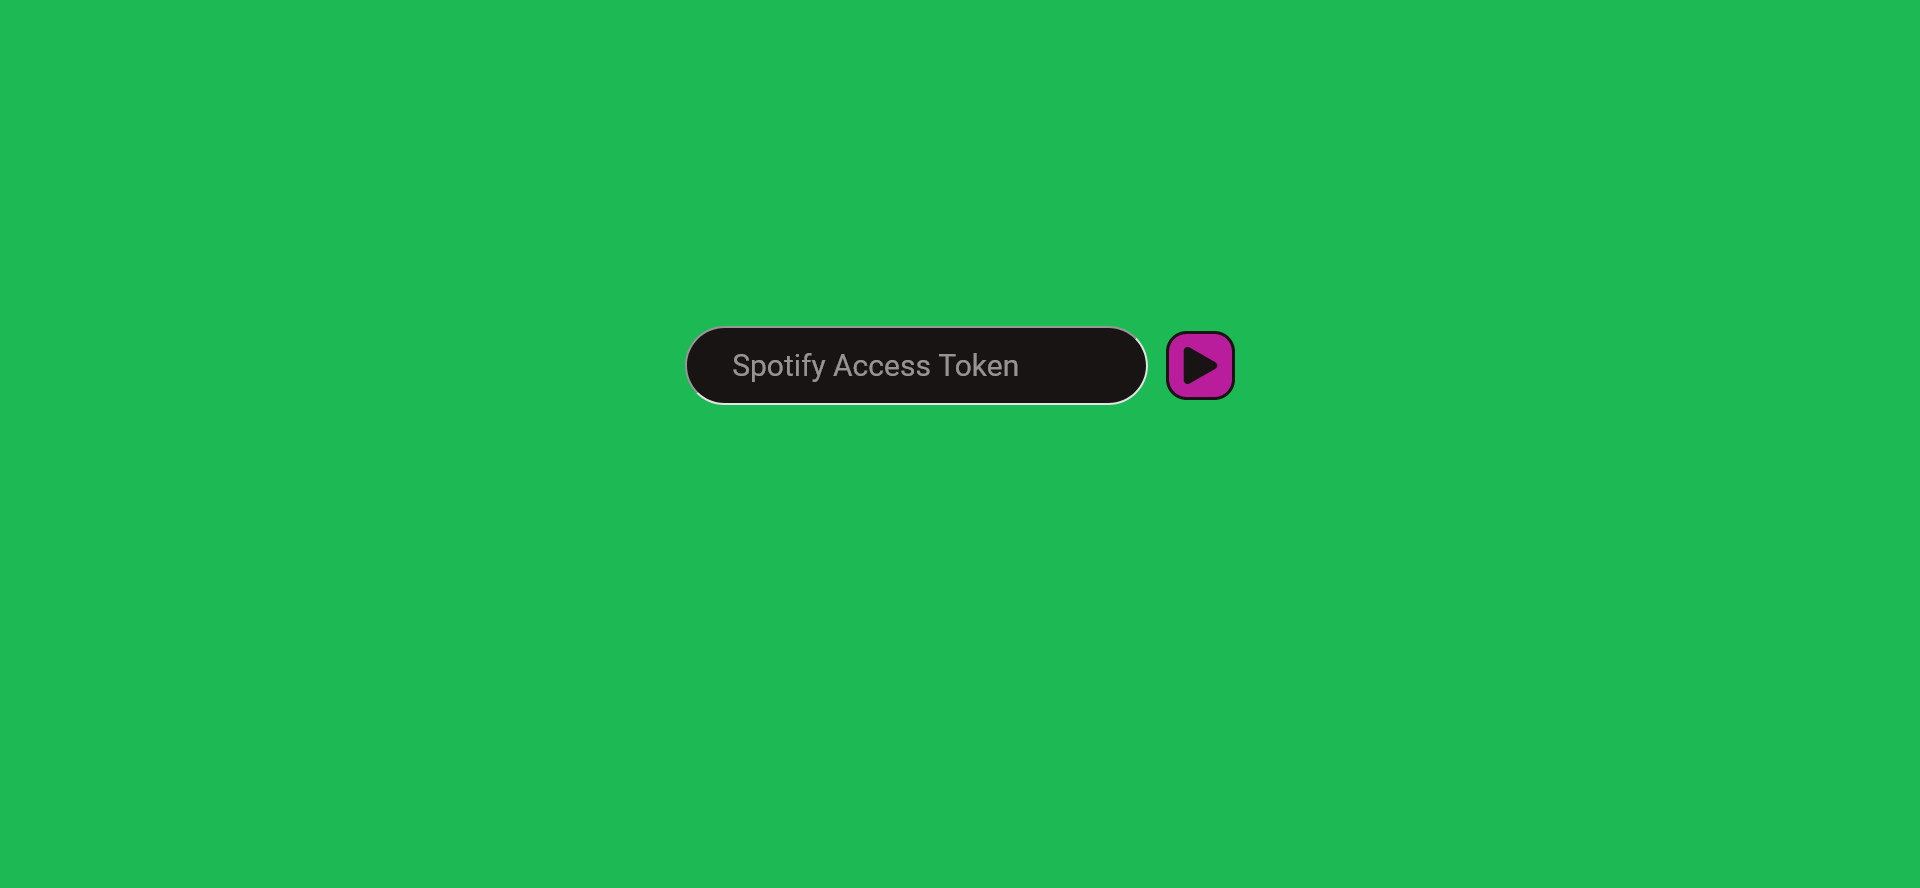
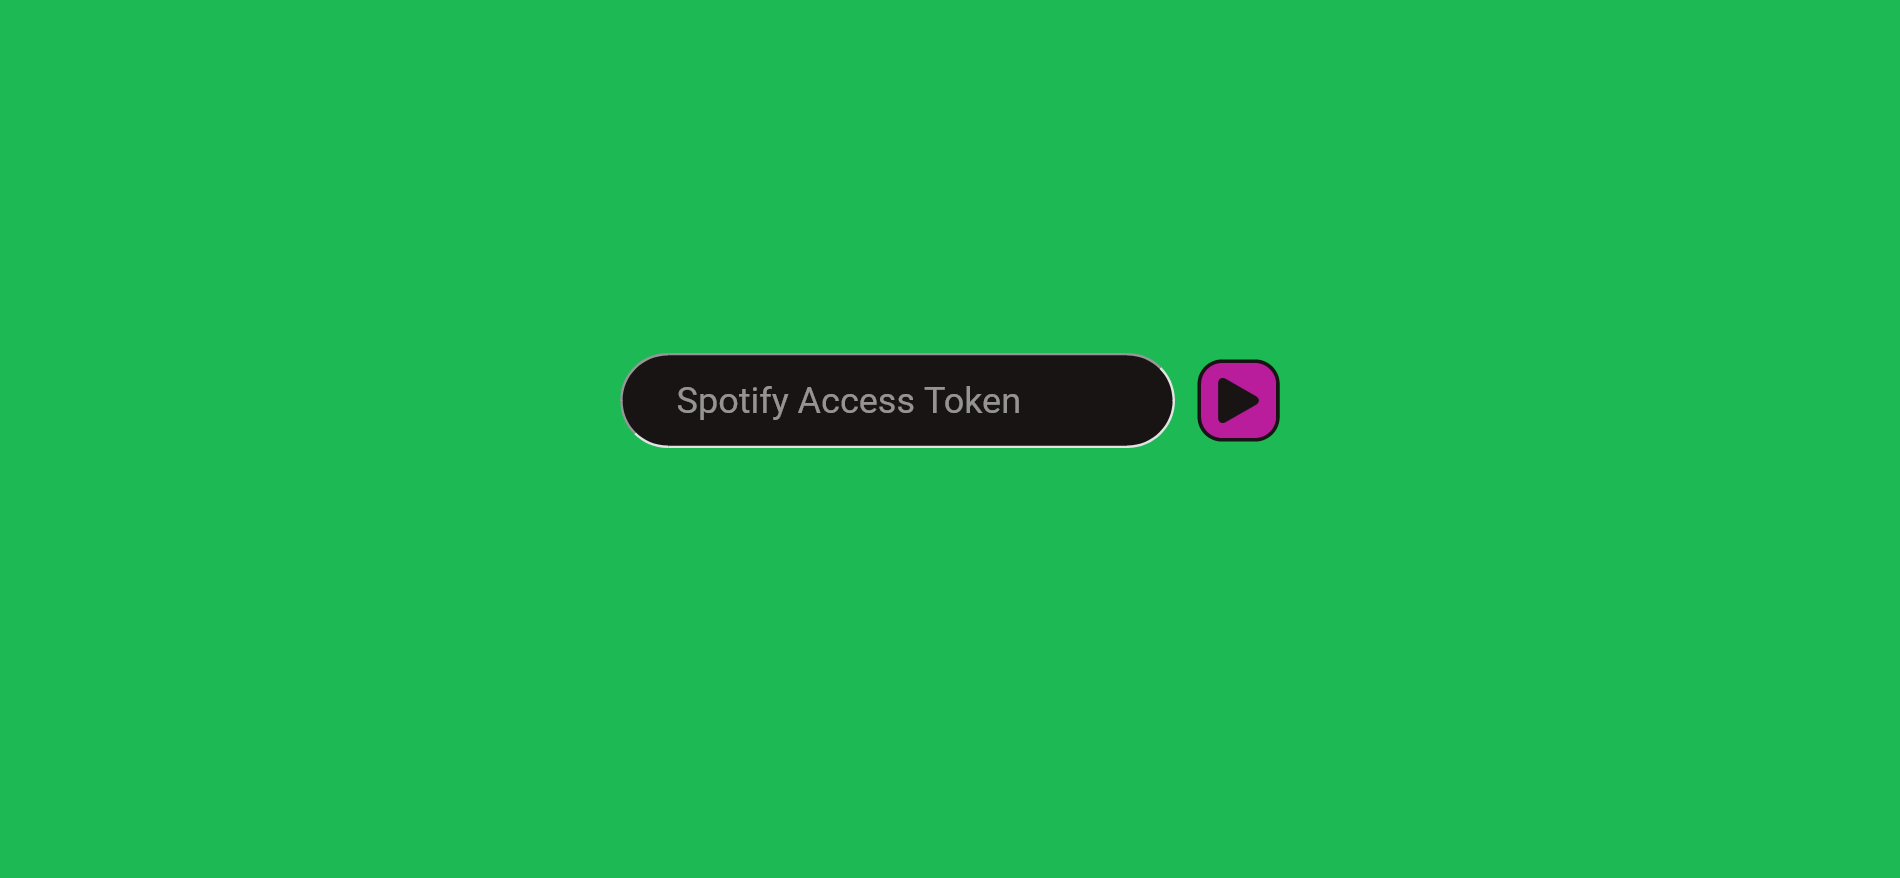
style: center panel & update img

Changed region(s): [[0.3105, 0.369, 0.6832, 0.5228]]

diff --git a/css/style.css b/css/style.css
@@ -50,7 +50,7 @@ a:hover {
     flex-direction: row;
     justify-content: center;
     align-items: center;
-    height: 80vh;
+    height: 90vh;
     width: 100%;
 }
 
